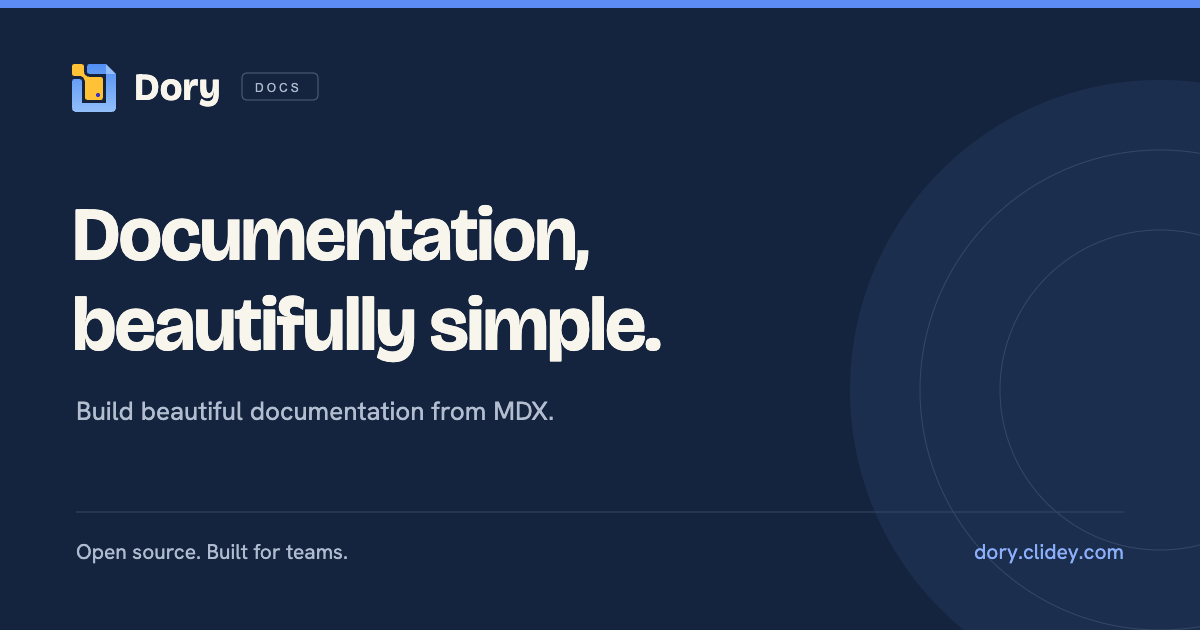
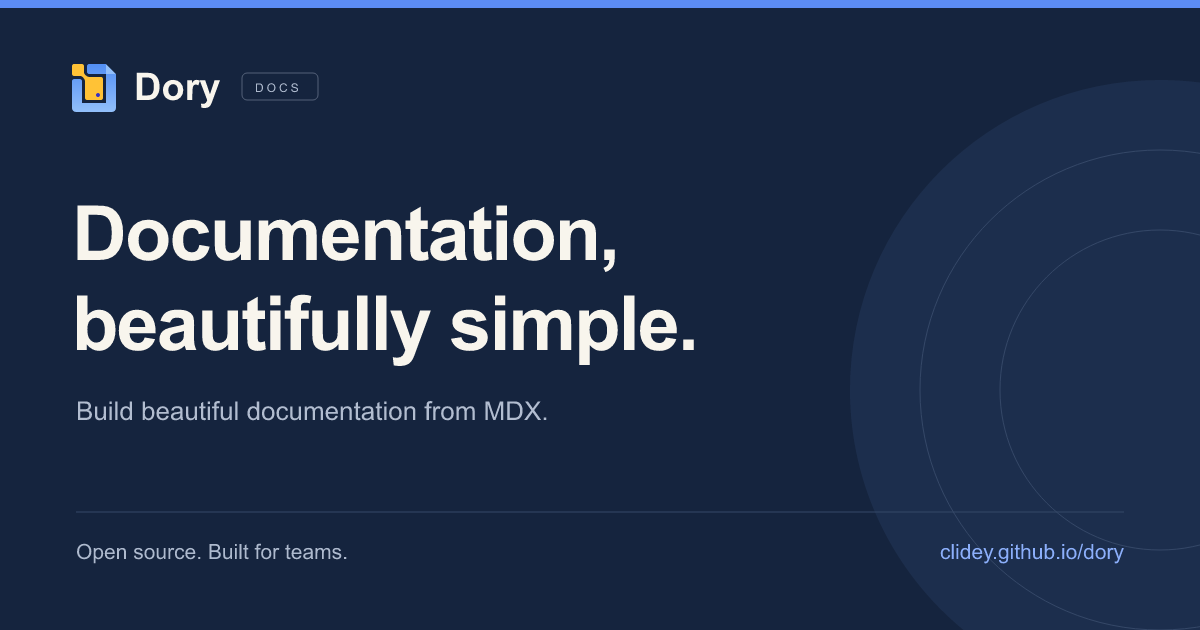
docs: publish Dory documentation on GitHub Pages

diff --git a/README.md b/README.md
@@ -139,16 +139,11 @@ npm install -g pnpm
 
 ---
 
-### 3⃣ Copy Documentation Content
+### 3⃣ Browse Dory's Own Documentation
 
-Copy your existing documentation into the `./docs` directory:
-
-```bash
-rm -rf ./docs
-cp ../wherever-the-docs-are/. ./docs
-```
-
-> Replace `../wherever-the-docs-are/` with the actual path to your documentation source files.
+This repository already contains Dory's documentation in `docs/`. Edit its MDX
+pages and `docs/dory.json` to work on the site. To create documentation for a
+separate project, use `dory init` in a new folder rather than replacing these pages.
 
 ---
 
@@ -160,7 +155,7 @@ Start the development server to preview the documentation locally:
 pnpm run dev
 ```
 
-This will launch a local server (typically at `http://localhost:3000`) where you can preview and edit your documentation in real-time.
+This will launch a local server (typically at `http://localhost:3000/dory/`) where you can preview and edit your documentation in real-time.
 
 ---
 
@@ -174,6 +169,28 @@ pnpm run build
 
 This will create a `dist` directory containing the fully built static site, ready to be served.
 
+
+## GitHub Pages for Dory's Docs
+
+The documentation workflow builds the docs from this repository's source. Its
+Pages target is `https://clidey.github.io/dory/`, configured with `url` and
+`basePath` in `docs/dory.json`.
+
+Preview the production build locally before reviewing or publishing changes:
+
+```sh
+pnpm run build
+node bin/dist/dory.js check
+pnpm run preview --host 127.0.0.1 --port 3188 --strictPort
+```
+
+Open `http://127.0.0.1:3188/dory/`. Review the code and preview with the user
+before pushing. Once approved, the workflow validates pull requests and deploys
+approved changes pushed to `main`. A repository administrator must enable Pages
+with **GitHub Actions** as its source before the first deployment.
+
+Pages serves the static documentation and search. Optional server-backed chat,
+analytics collection, and HTTP MCP require a separate server.
 
 ## 🐳 Docker Deployment (Optional)
 

diff --git a/AGENTS.md b/AGENTS.md
@@ -149,7 +149,7 @@ Plugins loaded in main config (in order):
 - `wouter-preact` — Routing
 - `sirv` — Static file serving (CLI preview)
 - `@clidey/ux` — Shared UI component library
-- Local WhoDB SVG suite in `src/assets/whodb-icons/` — Icons
+- Shared `@clidey/ux` catalog — Icons
 
 ## When Making Changes
 
@@ -160,3 +160,10 @@ Plugins loaded in main config (in order):
 - Navigation changes require updating `docs/dory.json`.
 - Test both light and dark modes for UI changes.
 - The `.npmrc` enforces strict security: frozen lockfile, strict SSL, 7-day minimum release age for packages.
+
+## Review Before Pushing
+
+Before every push, show the user the code changes and, for documentation work,
+a local preview. Wait for explicit approval after that review before running
+`git push` or publishing/deploying documentation. Do not treat an earlier push
+approval as approval for later changes.
